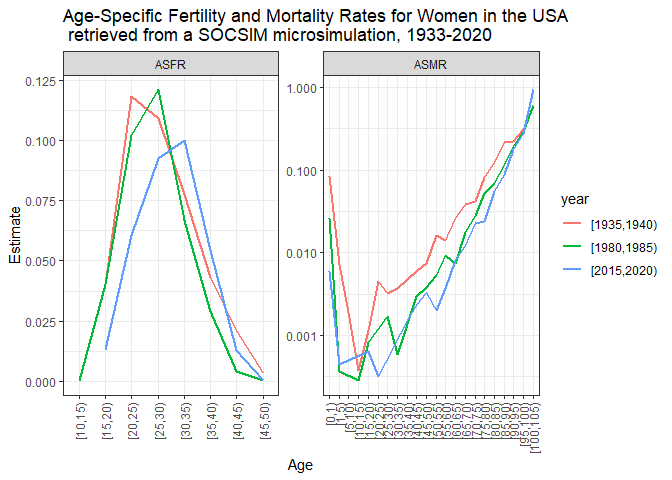
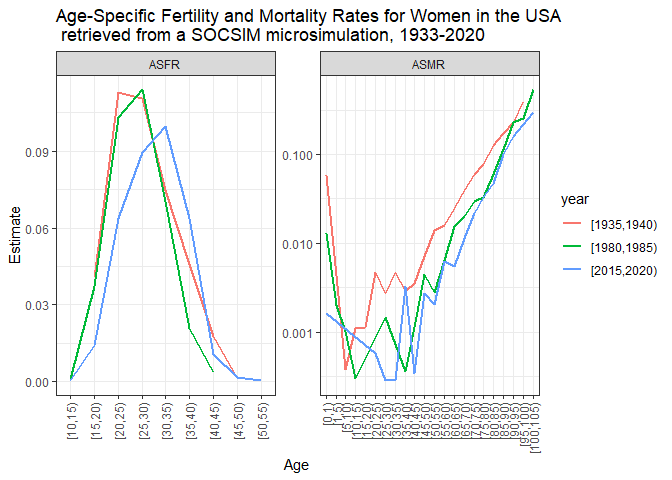
Add a glimpse on the opop and omar data and slightly modify AsYr functions and parameters

diff --git a/README.md b/README.md
@@ -4,9 +4,6 @@ kinship dynamics
 A Member Initiated Meeting at the 2023 Meeting of the Population
 Association of America (PAA); New Orleans, Apr 12, 2023
 
-- <a href="#what-is-socsim-and-how-does-it-work"
-  id="toc-what-is-socsim-and-how-does-it-work">What is SOCSIM and how does
-  it work?</a>
 - <a href="#1-setup" id="toc-1-setup">1. Setup</a>
 - <a
   href="#2-running-a-simulation-and-retrieving-the-input-demographic-rates"
@@ -20,10 +17,10 @@ Association of America (PAA); New Orleans, Apr 12, 2023
 - <a href="#4-learn-more" id="toc-4-learn-more">4. Learn more</a>
 - <a href="#references" id="toc-references">References</a>
 
-# What is SOCSIM and how does it work?
+## Introduction: What is SOCSIM and how does it work?
 
 Socsim was originally developed for Unix at UC Berkeley (E. Hammel et
-al. 1976), where it has been mantained for decades. The current release
+al. 1976), where it has been maintained for decades. The current release
 of rsocsim aims to be OS-agnostic and, for the most part,
 back-compatible with the original Socsim distribution. See
 <https://lab.demog.berkeley.edu/socsim/> and especially
@@ -98,8 +95,8 @@ library(rsocsim)
 # this will be in your home- or user-directory:
 folder = rsocsim::create_simulation_folder()
 
-# create a new supplement-file. Supplement-files tell socsim what
-# to simulate. create_sup_file will create a very basic supplement filee
+# create a new supervisory-file. supervisory-files tell socsim what
+# to simulate. create_sup_file will create a very basic supervisory file
 # and it copies some rate-files that will also be needed into the 
 # simulation folder:
 supfile = rsocsim::create_sup_file(folder)
@@ -112,7 +109,7 @@ rsocsim::socsim(folder,supfile,seed)
 ```
 
     ## [1] "Start run1simulationwithfile"
-    ## [1] "C:/Users/alburezgutierrez/socsim/socsim_sim_1923"
+    ## [1] "C:/Users/calderonbernal/socsim/socsim_sim_1820"
     ## [1] "300"
     ## Start socsim
     ## start socsim main. MAXUYEARS: 200; MAXUMONTHS: 2400
@@ -149,23 +146,23 @@ rsocsim::socsim(folder,supfile,seed)
     ## Starting month is 601
     ## Initial size of pop 8000  (living: 8000)
     ## ------------aa3s------------aa32New events generated for all living persons
-    ## ------------b1month:  700 PopLive:  9414 Brths:  16 Dths:   0 Mrgs: 11 Dvs:  0 Mq: 3728 Fq:0 ti1: 0.6 ti2: 0.014000 1.0073
-    ## month:  800 PopLive: 10926 Brths:  12 Dths:   1 Mrgs:  6 Dvs:  0 Mq: 3890 Fq:0 ti1: 0.9 ti2: 0.012000 0.7930
-    ## month:  900 PopLive: 12260 Brths:  14 Dths:   0 Mrgs:  4 Dvs:  0 Mq: 4031 Fq:0 ti1: 1.1 ti2: 0.010000 0.6154
-    ## month: 1000 PopLive: 13397 Brths:   9 Dths:   2 Mrgs:  4 Dvs:  0 Mq: 4134 Fq:0 ti1: 1.5 ti2: 0.013000 0.7607
-    ## month: 1100 PopLive: 14172 Brths:  16 Dths:   6 Mrgs:  6 Dvs:  0 Mq: 4135 Fq:0 ti1: 1.8 ti2: 0.019000 1.1112
-    ## month: 1200 PopLive: 14518 Brths:  13 Dths:  11 Mrgs:  6 Dvs:  0 Mq: 4000 Fq:0 ti1: 2.3 ti2: 0.022000 1.3750
-    ## month: 1300 PopLive: 14323 Brths:  14 Dths:  20 Mrgs:  4 Dvs:  0 Mq: 3891 Fq:0 ti1: 2.7 ti2: 0.015000 0.9908
-    ## month: 1400 PopLive: 13816 Brths:  13 Dths:  15 Mrgs:  4 Dvs:  0 Mq: 3746 Fq:0 ti1: 3.3 ti2: 0.019000 1.3540
-    ## month: 1500 PopLive: 13330 Brths:  11 Dths:  11 Mrgs:  5 Dvs:  0 Mq: 3679 Fq:0 ti1: 3.6 ti2: 0.025000 1.8471
-    ## month: 1600 PopLive: 12944 Brths:  10 Dths:  15 Mrgs:  4 Dvs:  0 Mq: 3593 Fq:0 ti1: 4.2 ti2: 0.023000 1.7816
-    ## month: 1700 PopLive: 12525 Brths:  10 Dths:  20 Mrgs:  5 Dvs:  0 Mq: 3436 Fq:0 ti1: 4.7 ti2: 0.019000 1.6093
-    ## month: 1800 PopLive: 12009 Brths:  10 Dths:  16 Mrgs:  7 Dvs:  0 Mq: 3275 Fq:0 ti1: 5.2 ti2: 0.045000 4.1956
+    ## ------------b1month:  700 PopLive:  9414 Brths:  16 Dths:   0 Mrgs: 11 Dvs:  0 Mq: 3728 Fq:0 ti1: 0.3 ti2: 0.007000 0.5037
+    ## month:  800 PopLive: 10926 Brths:  12 Dths:   1 Mrgs:  6 Dvs:  0 Mq: 3890 Fq:0 ti1: 0.4 ti2: 0.008000 0.5287
+    ## month:  900 PopLive: 12260 Brths:  14 Dths:   0 Mrgs:  4 Dvs:  0 Mq: 4031 Fq:0 ti1: 0.5 ti2: 0.006000 0.3693
+    ## month: 1000 PopLive: 13397 Brths:   9 Dths:   2 Mrgs:  4 Dvs:  0 Mq: 4134 Fq:0 ti1: 0.7 ti2: 0.006000 0.3511
+    ## month: 1100 PopLive: 14172 Brths:  16 Dths:   6 Mrgs:  6 Dvs:  0 Mq: 4135 Fq:0 ti1: 0.8 ti2: 0.009000 0.5264
+    ## month: 1200 PopLive: 14518 Brths:  13 Dths:  11 Mrgs:  6 Dvs:  0 Mq: 4000 Fq:0 ti1: 1.0 ti2: 0.006000 0.3750
+    ## month: 1300 PopLive: 14323 Brths:  14 Dths:  20 Mrgs:  4 Dvs:  0 Mq: 3891 Fq:0 ti1: 1.1 ti2: 0.007000 0.4624
+    ## month: 1400 PopLive: 13816 Brths:  13 Dths:  15 Mrgs:  4 Dvs:  0 Mq: 3746 Fq:0 ti1: 1.3 ti2: 0.007000 0.4988
+    ## month: 1500 PopLive: 13330 Brths:  11 Dths:  11 Mrgs:  5 Dvs:  0 Mq: 3679 Fq:0 ti1: 1.4 ti2: 0.008000 0.5911
+    ## month: 1600 PopLive: 12944 Brths:  10 Dths:  15 Mrgs:  4 Dvs:  0 Mq: 3593 Fq:0 ti1: 1.6 ti2: 0.007000 0.5422
+    ## month: 1700 PopLive: 12525 Brths:  10 Dths:  20 Mrgs:  5 Dvs:  0 Mq: 3436 Fq:0 ti1: 1.7 ti2: 0.006000 0.5082
+    ## month: 1800 PopLive: 12009 Brths:  10 Dths:  16 Mrgs:  7 Dvs:  0 Mq: 3275 Fq:0 ti1: 1.8 ti2: 0.008000 0.7459
     ## 
     ## 
     ## Socsim Main Done
     ## Socsim Done.
-    ## [1] "restore previous working dir: C:/cloud2/_static/Conferences, symposiums, presentations, courses/20230412-15_PAA_new_orleans/workshop-socsim/7_materials/rsocsim_workshop_paa"
+    ## [1] "restore previous working dir: U:/SOCSIM/rsocsim_workshop_paa"
 
     ## [1] 1
 
@@ -186,7 +183,7 @@ library(rsocsim)
 # install.packages("tidyverse")
 library(tidyverse) #For data wrangling
 # install.packages("ggh4x")
-library(ggh4x) #for extendd facet plotting
+library(ggh4x) #for extended facet plotting
 # install.packages("data.table") #for large datasets
 library(data.table)
 ```
@@ -377,7 +374,8 @@ rsocsim::socsim(folder, supfile, seed, process_method = "future")
 ```
 
 The simulation results are ready. We can use the `read_opop` and
-`read_omar` functions from the package to import the results into `R`.
+`read_omar` functions from the `rsocsim` package to import the output
+population and marriage files into `R`.
 
 ``` r
 ## Read the opop file using the read_opop function
@@ -385,7 +383,7 @@ opop <- rsocsim::read_opop(folder = getwd(), supfile = "socsim_USA.sup",
                            seed = "120423", suffix = "",  fn = NULL)
 ```
 
-    ## [1] "read population file: C:/cloud2/_static/Conferences, symposiums, presentations, courses/20230412-15_PAA_new_orleans/workshop-socsim/7_materials/rsocsim_workshop_paa/sim_results_socsim_USA.sup_120423_/result.opop"
+    ## [1] "read population file: U:/SOCSIM/rsocsim_workshop_paa/sim_results_socsim_USA.sup_120423_/result.opop"
 
 ``` r
 ## Read the omar file using the read_opop function
@@ -393,7 +391,53 @@ omar <- rsocsim::read_omar(folder = getwd(), supfile = "socsim_USA.sup",
                            seed = "120423", suffix = "",  fn = NULL)
 ```
 
-    ## [1] "read marriage file: C:/cloud2/_static/Conferences, symposiums, presentations, courses/20230412-15_PAA_new_orleans/workshop-socsim/7_materials/rsocsim_workshop_paa/sim_results_socsim_USA.sup_120423_/result.omar"
+    ## [1] "read marriage file: U:/SOCSIM/rsocsim_workshop_paa/sim_results_socsim_USA.sup_120423_/result.omar"
+
+Let’s have a glimpse on the simulated population and marriage files.
+
+The population file (.opop) contains one record for each individual who
+was ever alive during the simulation. Each record (row) provides the
+following information for a given individual: person id (pid), sex (fem,
+1 for female and 0 for male), group identifier (group), next scheduled
+event (nev), date of birth (dob), person id of mother (mom), person id
+of father (pop), person id of next eldest sibling through mother
+(nesibm), person id of next eldest sibling through father (nesibp),
+person id of last born child (lborn), id of most recent marriage in
+.omar ﬁle (marid), marital status at end of simulation (mstat), date of
+death (dod, or 0 if alive at end of simulation) and fertility multiplier
+(fmult).
+
+``` r
+head(opop)
+```
+
+    ##   pid fem group nev dob mom pop nesibm nesibp lborn marid mstat  dod    fmult
+    ## 1   1   1     1  65 806   0   0      0      0     0     0     1 1662 0.172002
+    ## 2   2   0     1  65 760   0   0      0      0     0     0     1 1826 0.000000
+    ## 3   3   1     1  65 763   0   0      0      0     0     0     1 1689 0.605228
+    ## 4   4   0     1  65 955   0   0      0      0 23904  1959     3 2041 0.000000
+    ## 5   5   1     1  65 923   0   0      0      0 22593  2018     3 1871 0.701332
+    ## 6   6   0     1  65 790   0   0      0      0 21265  1139     4 1394 0.000000
+
+The marriage file (.omar) contains one record for each marriage. Each
+marriage record provides the following information: marriage id number
+(mid), wife’s person id (wpid), husband’s person id (hpid), date
+marriage began (dstart), date marriage ended (dend, it’s 0 if in force
+at the end of simulation), reason marriage ended (rend), marriage id of
+wife’s next most recent prior marriage (wprior), marriage id of
+husband’s next most recent prior marriage (hprior).
+
+``` r
+head(omar)
+```
+
+    ##   mid  wpid hpid dstart dend rend wprior hprior
+    ## 1   1  9289 7228   1201 2112    3      0      0
+    ## 2   2  6989 4799   1201 1784    3      0      0
+    ## 3   3   104 9607   1201 1386    3      0      0
+    ## 4   4  4302 9271   1201 1576    3      0      0
+    ## 5   5  4155 2676   1201 1234    3      0      0
+    ## 6   6 10294   59   1201 1224    3      0      0
 
 ## 2.5. Estimate age-specific rates from the SOCSIM microsimulation
 
@@ -427,7 +471,7 @@ and ages correspond to the groups size. Let’s run the code.
 ``` r
 # Estimate age-specific fertility rates
 asfr_sim <- rsocsim::estimate_fertility_rates(opop = opop,
-                                             final_sim_year = 2020 , #[Jan-Dec]
+                                             final_sim_year = 2020, #[Jan-Dec]
                                              year_min = 1935, # Closed [
                                              year_max = 2020, # Open )
                                              year_group = 5, 
@@ -666,10 +710,10 @@ The first thing we require is a helper function to identify the year of
 interest.
 
 ``` r
-#We won't discuss how this function works, but it uses the ending simulation year
-#and month to convert our monthly dates into yearly ones
-asYr <- function(FinalSimYear = FinalSimYear, endmo = endmo, x) {
-  return(trunc(FinalSimYear - (endmo - x)/12))
+#We won't discuss how this function works, but it uses the final simulation year (January-December)
+#and the last simulated month to convert our monthly dates into yearly ones
+asYr <- function(month, last_month=last_month, final_sim_year=final_sim_year) {
+  return(final_sim_year - trunc((last_month - month)/12))
 }
 ```
 
@@ -681,7 +725,7 @@ opop <- rsocsim::read_opop(folder = getwd(), supfile = "socsim_USA.sup",
                            seed = "120423", suffix = "",  fn = NULL)
 ```
 
-    ## [1] "read population file: C:/cloud2/_static/Conferences, symposiums, presentations, courses/20230412-15_PAA_new_orleans/workshop-socsim/7_materials/rsocsim_workshop_paa/sim_results_socsim_USA.sup_120423_/result.opop"
+    ## [1] "read population file: U:/SOCSIM/rsocsim_workshop_paa/sim_results_socsim_USA.sup_120423_/result.opop"
 
 ``` r
 #We won't use the omar today, but you can use it when investigating affinal kin
@@ -689,18 +733,18 @@ opop <- rsocsim::read_opop(folder = getwd(), supfile = "socsim_USA.sup",
 
 ``` r
 #Parameters specific to this simulation: will need to be changed
-endmo <- max(opop$dob) + 1 #Ending month of simulation
-FinalSimYear <- 2035
+last_month <- max(opop$dob) # Last simulated month
+final_sim_year <- 2020
 ```
 
 ``` r
 #Cleaning our population file
 opop <- opop %>% 
  #Fixing dates of death for individuals still living at the end
-  mutate(dod = if_else(dod == 0, endmo, dod)) %>%
+  mutate(dod = if_else(dod == 0, last_month, dod)) %>%
   #Dates of birth and death in years for both individual and parents
-  mutate(dob_year = asYr(endmo = endmo, FinalSimYear = FinalSimYear, dob),
-         dod_year = asYr(endmo = endmo, FinalSimYear = FinalSimYear, dod), 
+  mutate(dob_year = asYr(dob, last_month=last_month, final_sim_year=final_sim_year),
+         dod_year = asYr(dod, last_month=last_month, final_sim_year=final_sim_year), 
          mom_dod_year = dod_year[match(mom, pid)],
          pop_dod_year = dod_year[match(pop, pid)])
 ```
@@ -734,7 +778,7 @@ each year.
 
 ``` r
 #Loop through and bind rows
-full_data <- bind_rows(lapply(1950:2030, 
+full_data <- bind_rows(lapply(1933:2020, 
                               function(x) getKinLoss(year_of_interest = x, 
                                                       opop = opop)))
 ```
